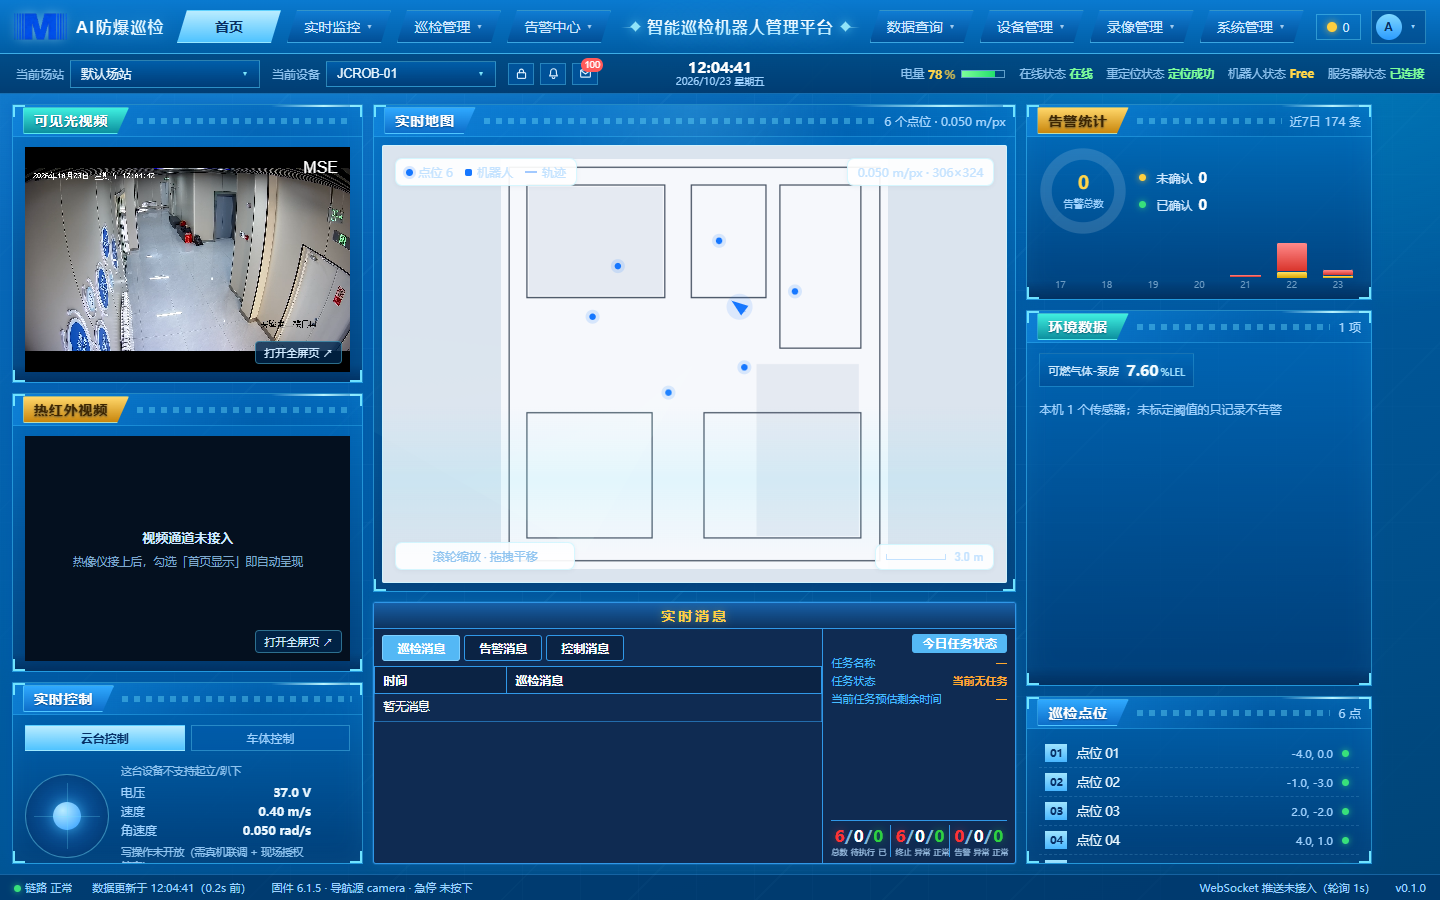
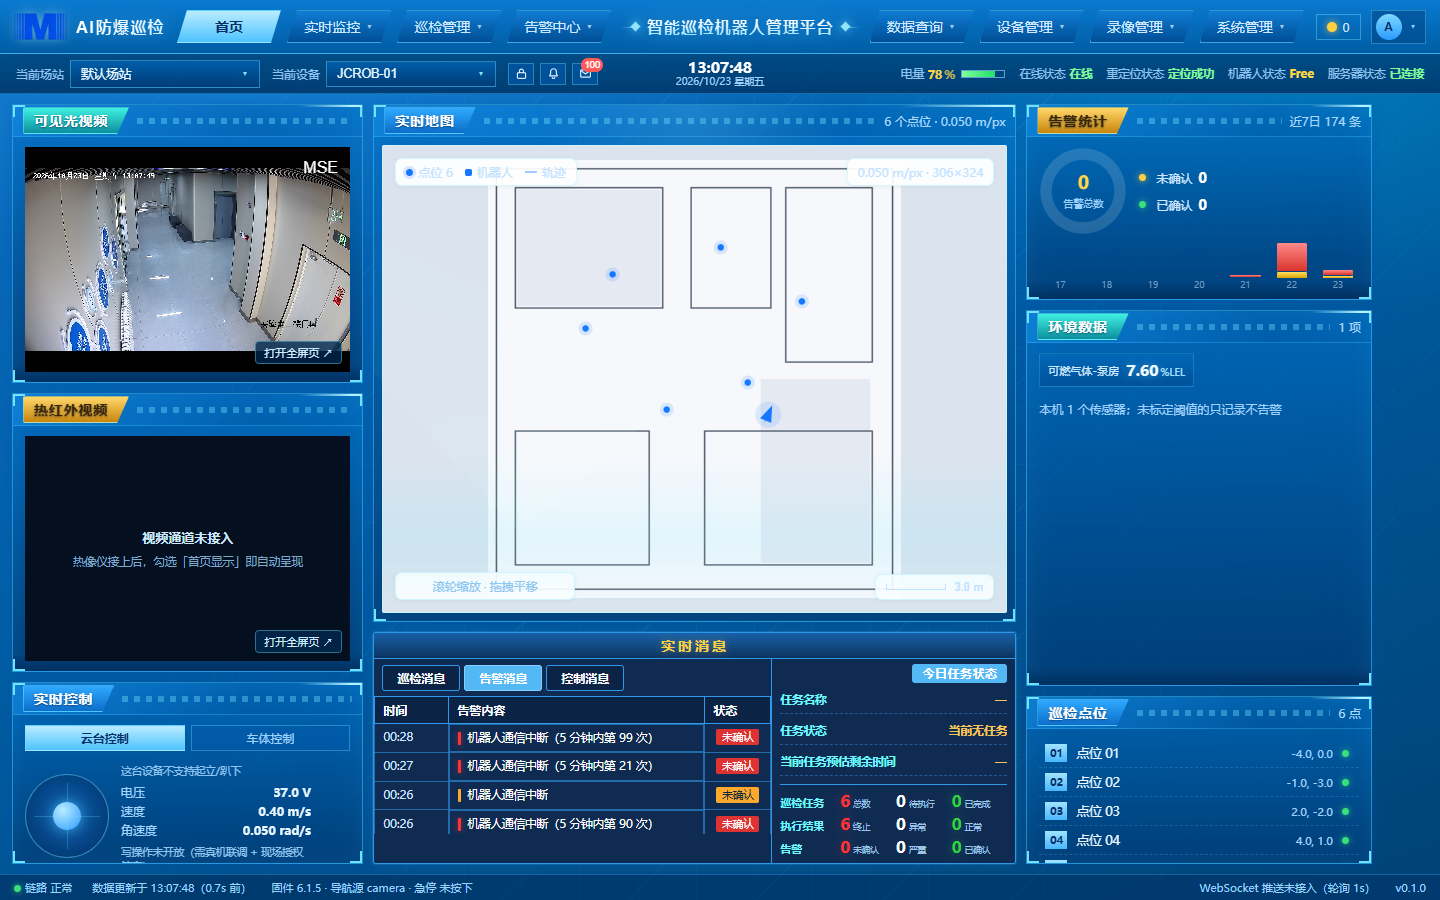
style(dashboard): 实时消息高度自适应，底部空白去掉，地图往下延伸
- .rt height 262px 固定 → auto：面板高度由内容决定，不再留底部空白
- 左侧消息列表 max-height 138px + overflow-y auto：30 条消息在面板内滚动，
  不会把面板撑高（用户可以上下滑动）
- .col.center 本来就是 1fr + auto，面板收窄后地图自动变高
  实测：地图 518px（原约 460），实时消息 232px（原 262）

diff --git a/web/src/pages/Dashboard.vue b/web/src/pages/Dashboard.vue
@@ -1352,7 +1352,7 @@ async function logout() {
 
 /* ===== 实时消息：1:1 复刻参考（配色用豆包给出的精确值） ===== */
 .rt {
-  height: 262px; flex: none; display: flex; flex-direction: column;
+  height: auto; flex: none;   /* 高度由内容决定，不留底部空白，地图吃剩余空间 */ display: flex; flex-direction: column;
   background: #0f2b52; border: 1px solid #3098e8; border-radius: 3px;
   box-shadow: 0 0 0 1px rgba(48, 152, 232, .25), 0 0 12px rgba(48, 152, 232, .18);
   overflow: hidden;
@@ -1367,7 +1367,7 @@ async function logout() {
   text-shadow: 0 0 8px rgba(255, 208, 64, .35);
 }
 /* 左栏比原来窄约 12%（70%→62%），右栏随之左移变宽 */
-.rt-body { flex: 1; min-height: 0; display: grid; grid-template-columns: 6.2fr 1px 3.8fr; }
+.rt-body { flex: 1; min-height: 0; display: grid; align-items: stretch; grid-template-columns: 6.2fr 1px 3.8fr; }
 .rt-left { min-width: 0; display: flex; flex-direction: column; }
 .rt-tabs { display: flex; gap: 0; padding: 6px 8px 5px; flex: none; }
 .rt-tabs button {
@@ -1376,7 +1376,7 @@ async function logout() {
   margin-right: 4px;
 }
 .rt-tabs button.on { background: #54b8f5; color: #ffffff; border-color: #7fd0ff; }
-.rt-scroll { flex: 1; min-height: 0; overflow-y: auto; overflow-x: hidden; scrollbar-width: thin; }
+.rt-scroll { min-height: 0; max-height: 138px; overflow-y: auto; overflow-x: hidden; scrollbar-width: thin; }
 .rt-scroll::-webkit-scrollbar { width: 6px; }
 .rt-scroll::-webkit-scrollbar-thumb { background: #2f7fc4; border-radius: 3px; }
 .rt-tbl { width: 100%; border-collapse: collapse; table-layout: fixed; }
